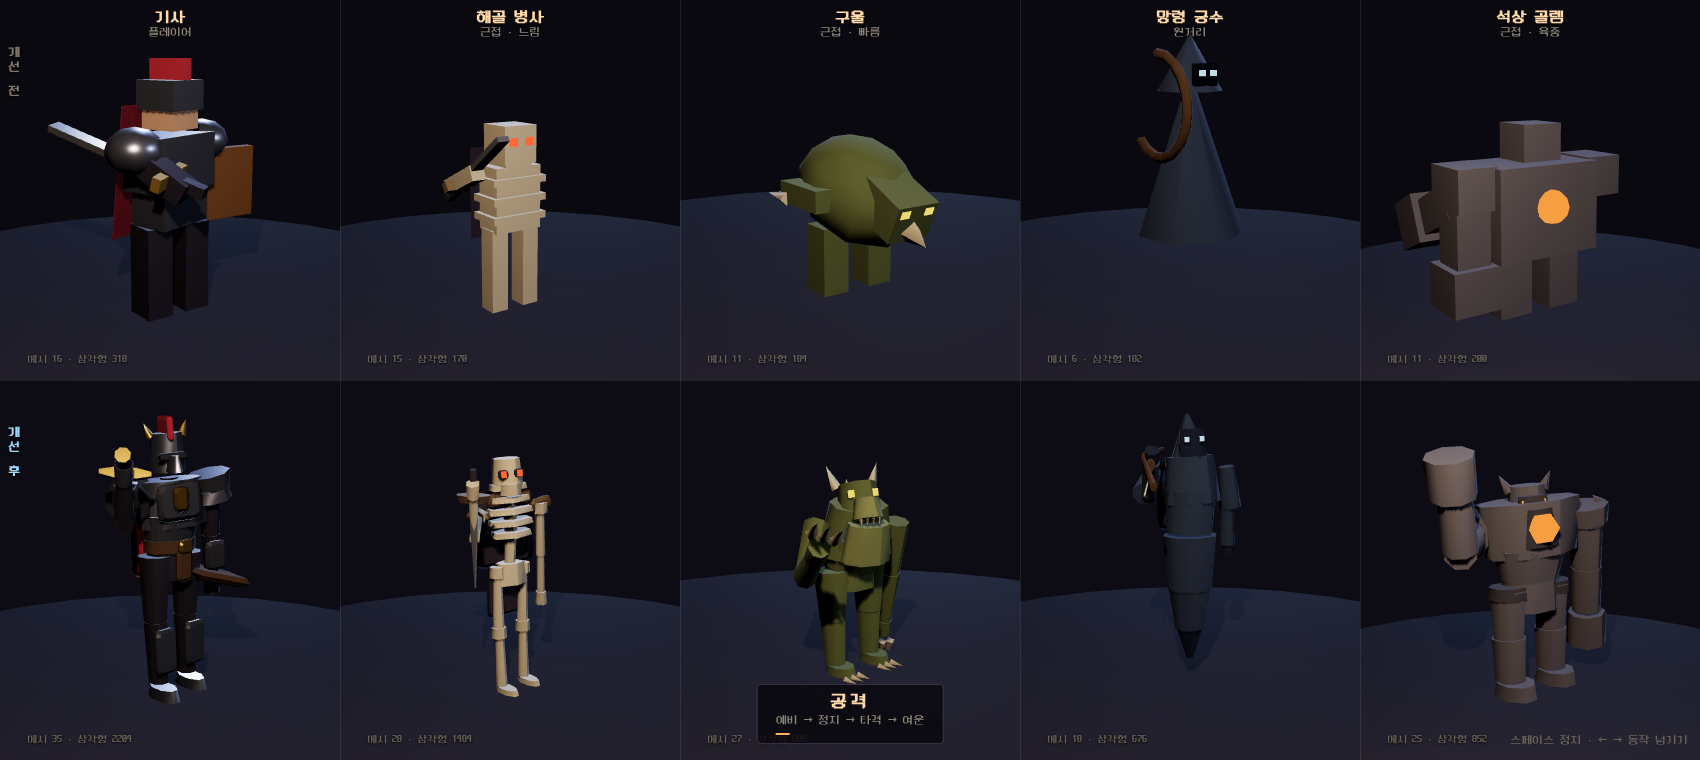
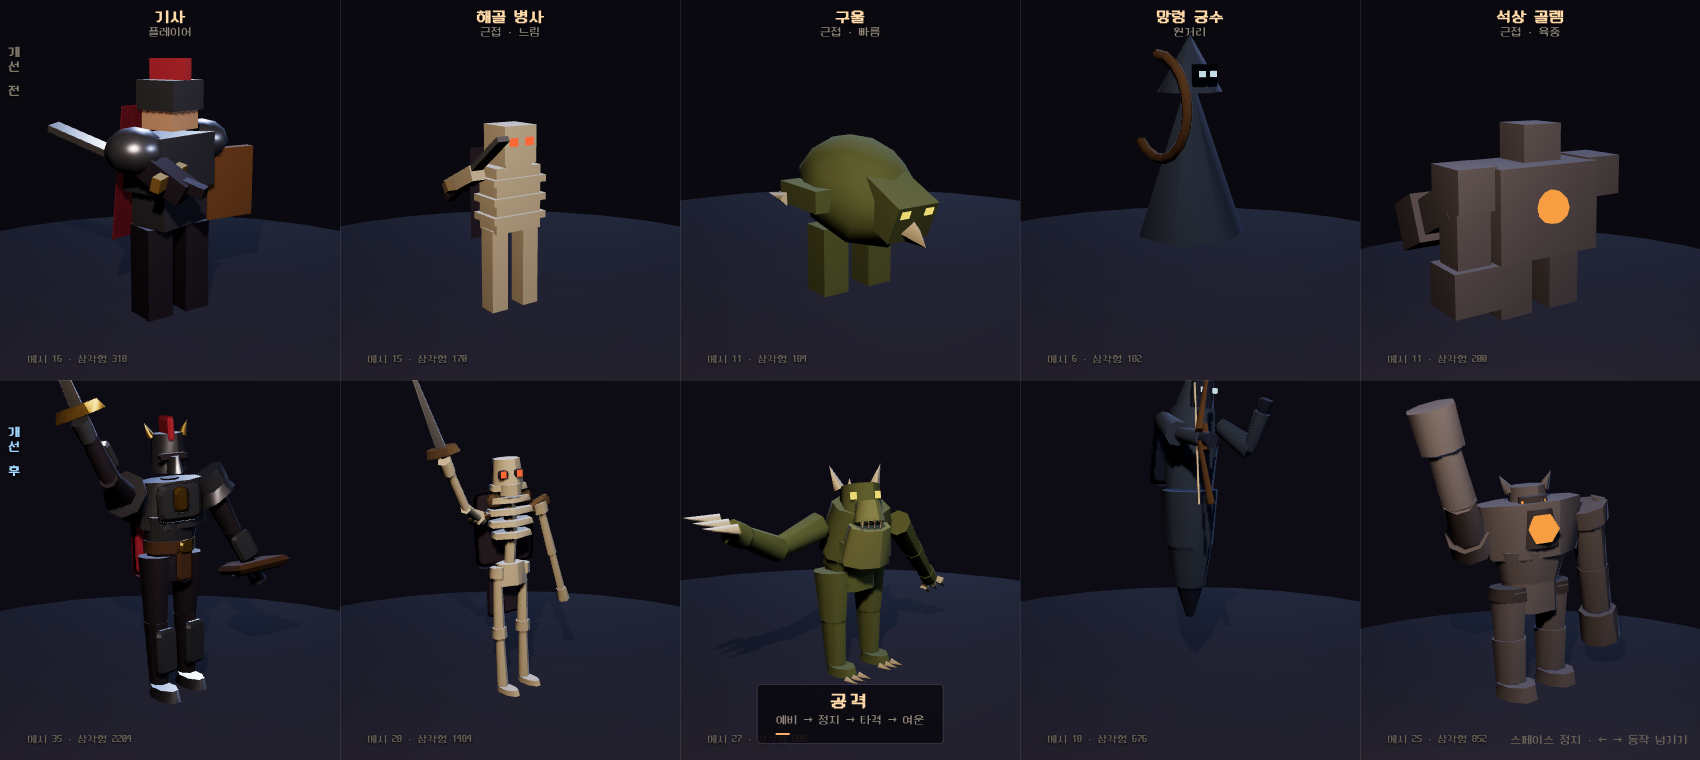
검을 거꾸로 쥐고 있었다 — 그래서 내려베기가 안 보였다
「때리는 것도 어색해. 몸 앞에서 내려가잖아.」

칼날이 손에서 **팔뚝 쪽(몸 쪽)으로** 뻗어 있었다. 얼음송곳 쥐듯 거꾸로다.
서 있을 때는 검이 위로 서 있어 그럴듯해 보이지만, 팔을 들어올리면
**손잡이가 위, 칼끝이 아래-뒤**를 향한다. 그래서 팔이 아무리 큰 호를
그려도 칼끝은 몸 앞에서 오르내리기만 했다.

직전 커밋에서 「대각선 내려베기로 다시 짰다」고 한 건 **팔 궤적만** 고친
것이었고, 무기가 반대로 달려 있어 화면에 안 나타났다.
팔 각도만 보고 판단한 게 잘못이다 — **무기 끝이 어디를 지나는지**를
봤어야 했다. 옆에서 찍어 보고서야 보였다.

weapon.rotation.x 를 π 만큼 뒤집어 칼날이 손 바깥(먼 쪽)으로 뻗게 한다.
폼멜은 손목 쪽으로 온다. 해골의 검과 군주의 낫도 같은 문제라 함께 고쳤다.

검증 추가: actor.weaponHeldForward
  칼끝이 손보다 어깨에서 먼지를 잰다. 거꾸로 쥐면 음수가 나온다.

Claude-Session: https://claude.ai/code/session_013CK4JE82ihbrbQtFHFUAbe

diff --git a/tools/verify3d.js b/tools/verify3d.js
@@ -860,6 +860,34 @@ async function shot(page, name) {
     `정면에서 맞으면 가슴이 ${hitPose.frontX?.toFixed(3)} 젖혀진다`);
   ok('actor.hitHeadLag', hitPose.skipped || hitPose.headLags,
     `머리 ${hitPose.headLag?.toFixed(3)} (가슴보다 0.06초 늦게 젖혀진다)`);
+  // 무기를 **바로 쥐고 있는가.**
+  //
+  // 칼날이 손에서 팔뚝 쪽(몸 쪽)으로 뻗어 있었다 — 얼음송곳 쥐듯 거꾸로다.
+  // 서 있을 때는 검이 위로 서 있어 그럴듯해 보이지만, 들어올리면 손잡이가
+  // 위로 가고 칼끝이 아래-뒤를 향한다. 팔이 아무리 큰 호를 그려도 칼끝은
+  // 몸 앞에서 오르내리기만 한다 — 「몸 앞에서 내려가잖아」가 이것이었다.
+  //
+  // 판정: **칼끝이 손보다 어깨에서 멀어야 한다.** 거꾸로 쥐면 가까워진다.
+  const grip = await page.evaluate(async () => {
+    const THREE = await import('three');
+    const em = await import('./js/game/enemies.js');
+    const G = window.G3;
+    const out = {};
+    const check = (rig) => {
+      rig.group.updateMatrixWorld(true);
+      const sh = new THREE.Vector3(), hand = new THREE.Vector3(), tip = new THREE.Vector3();
+      rig.armR.getWorldPosition(sh);
+      rig.handR.getWorldPosition(hand);
+      rig.blade.getWorldPosition(tip);
+      return +(tip.distanceTo(sh) - hand.distanceTo(sh)).toFixed(3);
+    };
+    out.knight = check(G.player.rig);
+    out.skeleton = check(em.ARCHETYPES.skeleton.build());
+    return out;
+  });
+  ok('actor.weaponHeldForward', grip.knight > 0.15 && grip.skeleton > 0.1,
+    `칼끝이 손보다 어깨에서 먼 정도 — 기사 ${grip.knight} · 해골 ${grip.skeleton} (음수면 거꾸로 쥔 것)`);
+
   // 시간이 지나도 **제자리에 있는가.**
   //
   // 사고를 겪고 넣었다. poseHit 이 root.x / root.z 를 `+=` 로 더하는데 되돌리는

diff --git a/web/3d/js/core/models.js b/web/3d/js/core/models.js
@@ -134,9 +134,18 @@ export function buildKnight() {
   // ── 검 (오른손) ── 능선이 있는 날 + 십자 가드 + 원형 폼멜
   const weapon = new THREE.Group();
   weapon.position.set(0, -0.06, 0.04);
-  // 방패와 같은 이유의 보정. 겨눔 자세에서 팔이 −1.35 접히므로, 그대로 두면
-  // 칼끝이 바닥과 나란해진다. 0.55 를 되돌려 **비스듬히 위**를 향하게 한다.
-  weapon.rotation.x = 0.55;
+  // ── 검을 쥐는 방향 ──
+  //
+  // **칼날은 손에서 팔 바깥쪽(먼 쪽)으로 뻗어야 한다.** 처음엔 그 반대로,
+  // 칼날이 손에서 팔뚝 쪽으로 뻗어 있었다 — 얼음송곳 쥐듯 거꾸로 쥔 것이다.
+  // 서 있을 때는 검이 위로 서 있어서 그럴듯해 보였지만, 들어올리면
+  // **손잡이가 위, 칼끝이 아래-뒤**를 향했다. 그래서 팔이 아무리 큰 호를
+  // 그려도 칼끝은 몸 앞에서 오르내리기만 했다 —
+  // 「몸 앞에서 내려가잖아」가 이것이었다.
+  //
+  // π 만큼 뒤집으면 칼날이 손 바깥(−Y)으로, 폼멜이 손목 쪽으로 온다.
+  // 0.28 을 덜어 칼끝을 살짝 앞으로 눕힌다.
+  weapon.rotation.x = Math.PI - 0.28;
   const wp = new Part(weapon);
   wp.add(prism(0.045, 0.045, 0.20, 0.05, 0.05), leather, { y: 0.06 });       // 손잡이
   wp.add(prism(0.09, 0.09, 0.05, 0.06, 0.06, { hang: false }), gold, { y: -0.16 });  // 폼멜
@@ -228,7 +237,7 @@ export function buildSkeleton() {
   // 녹슨 검
   const weapon = new THREE.Group();
   weapon.position.set(0, -0.05, 0.03);
-  weapon.rotation.x = -0.18;
+  weapon.rotation.x = Math.PI - 0.22;   // 기사와 같은 이유 (칼날은 손 바깥으로)
   new Part(weapon)
     .add(prism(0.04, 0.04, 0.15, 0.045, 0.045), rag, { y: 0.05 })
     .add(prism(0.20, 0.06, 0.045, 0.17, 0.05, { hang: false }), rust, { y: 0.07 })

diff --git a/web/3d/js/game/boss.js b/web/3d/js/game/boss.js
@@ -99,7 +99,9 @@ function buildLord() {
   // 낫 — 초승달 날. 겨눔 자세의 팔 접힘을 되돌려 자루를 세운다
   const scythe = new THREE.Group();
   scythe.position.set(0, -0.08, 0.06);
-  scythe.rotation.x = 0.9;
+  // 낫도 마찬가지 — 자루가 손 바깥으로 뻗어야 초승달 날이 궤적을 그린다.
+  // 반대로 달아 두면 날이 등 뒤에서 오르내릴 뿐이다.
+  scythe.rotation.x = Math.PI - 0.34;
   new Part(scythe)
     .add(prism(0.055, 0.055, 2.5, 0.06, 0.06, { sides: 6, hang: false }), m(0x3a2c22), { y: 0.75 })
     .finish();
